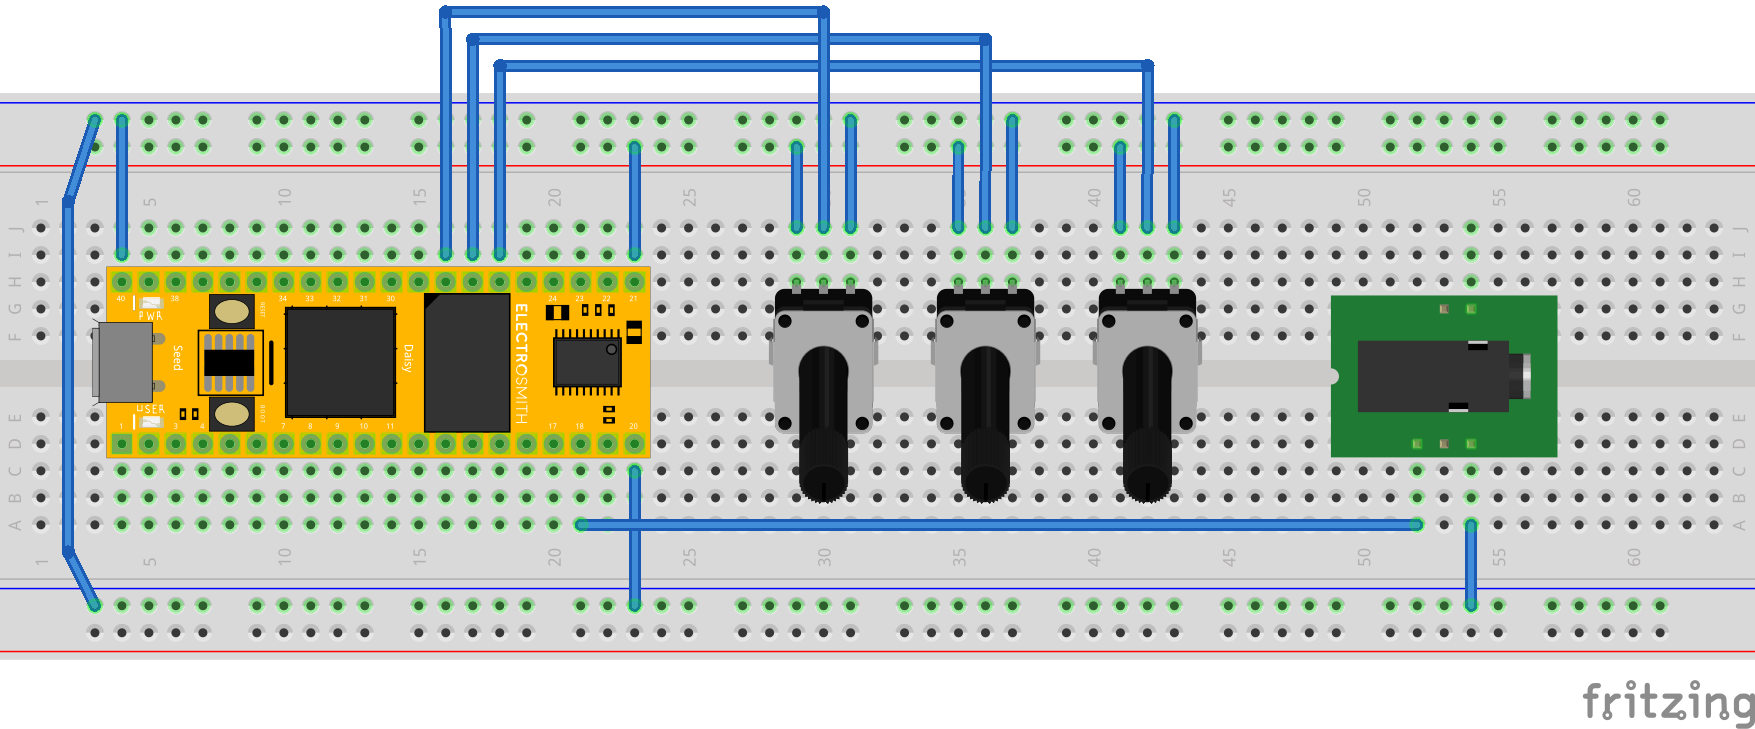
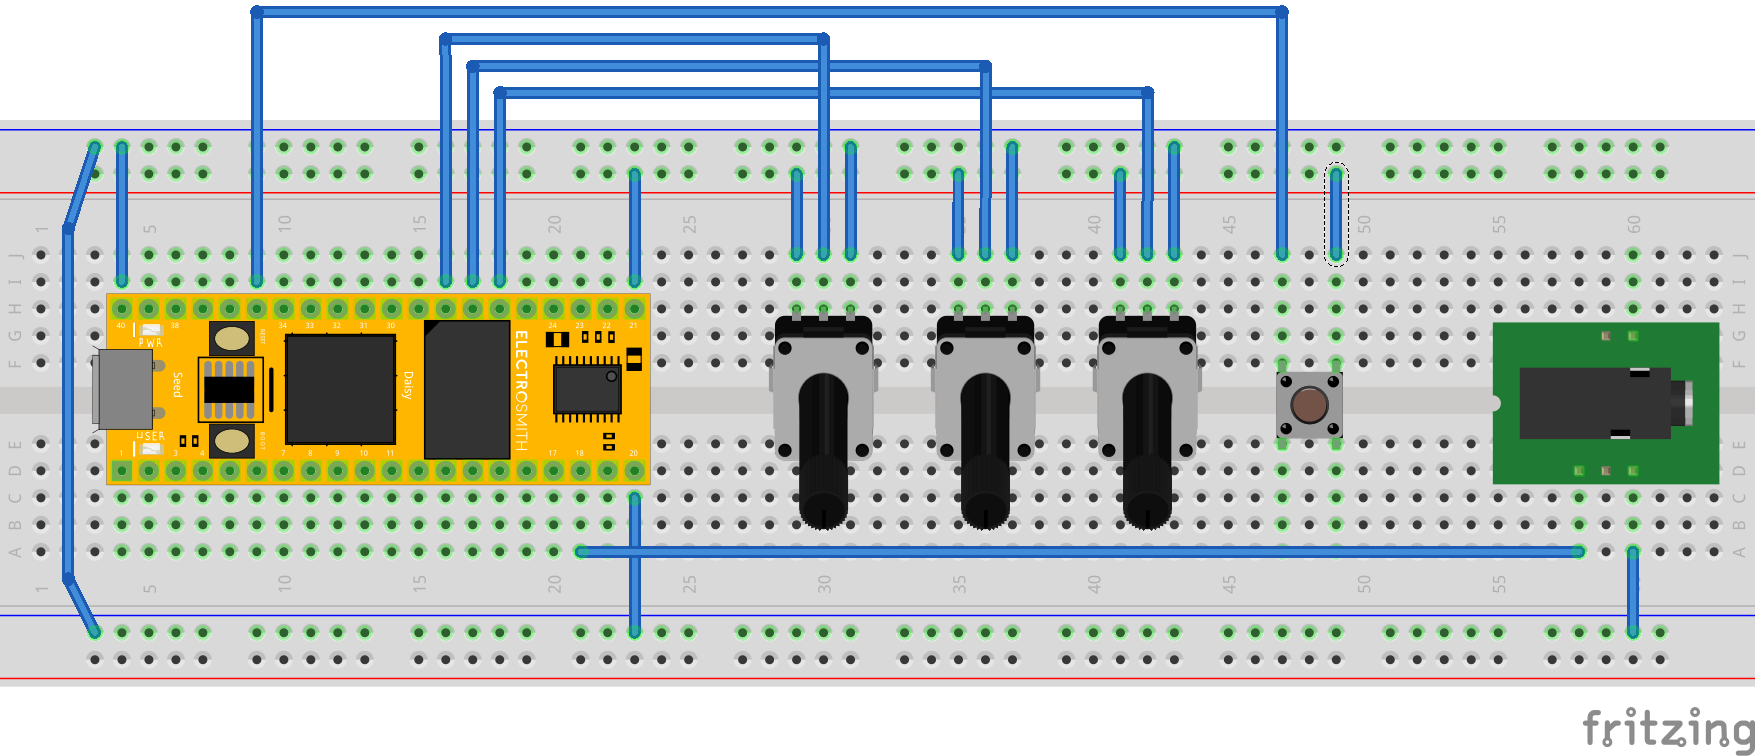
Add switch to change oscillators waveform

diff --git a/src/DaisyDrone.cpp b/src/DaisyDrone.cpp
@@ -97,6 +97,9 @@ void DaisyDrone::Init()
     m_freqLfo.SetAmp(50);
     m_freqLfo.SetWaveform(Oscillator::WAVE_SIN);
 
+    // Init Switch
+    m_oscsFormSwitch.Init(m_seed.GetPin(28), sampleRate);
+
     // start callback
     m_seed.StartAudio(AudioCallback);
 }
@@ -116,15 +119,28 @@ void DaisyDrone::AudioCallback(float *in, float *out, size_t size)
 
     float sig;
 
+    // Compute freq drift
     float lfoFreq = d->m_freqLfoParam.Process();
     d->m_freqLfo.SetFreq(lfoFreq);
     float lfoRate = abs(d->m_freqLfo.Process());
+
+    // Check for waveform change button
+    static uint8_t waveForm = Oscillator::WAVE_SIN;
+    d->m_oscsFormSwitch.Debounce();
+    if (d->m_oscsFormSwitch.RisingEdge())
+    {
+        waveForm++;
+        if (waveForm == Oscillator::WAVE_LAST)
+            waveForm = Oscillator::WAVE_SIN;
+    }
+
 
     for (int chan = 0; chan < CHANNELS_COUNT; chan++)
     {
         float newFreq = MAX(d->m_channelFreqParam[chan].Process() + lfoRate, FreqMin);
         for (size_t osc = 0; osc < OSCILLATORS_BY_CHANNEL; osc++)
         {
+            d->m_oscs[chan][osc].SetWaveform(waveForm);
             d->m_oscs[chan][osc].SetFreq((newFreq + osc*FreqIncFactor));
         }
     }

diff --git a/src/DaisyDrone.h b/src/DaisyDrone.h
@@ -53,6 +53,7 @@ private:
     Parameter m_channelFreqParam[CHANNELS_COUNT];
     Oscillator m_freqLfo;
     Parameter m_freqLfoParam;
+    Switch m_oscsFormSwitch;
 };
 
 #endif // DAISY_DRONE_H
